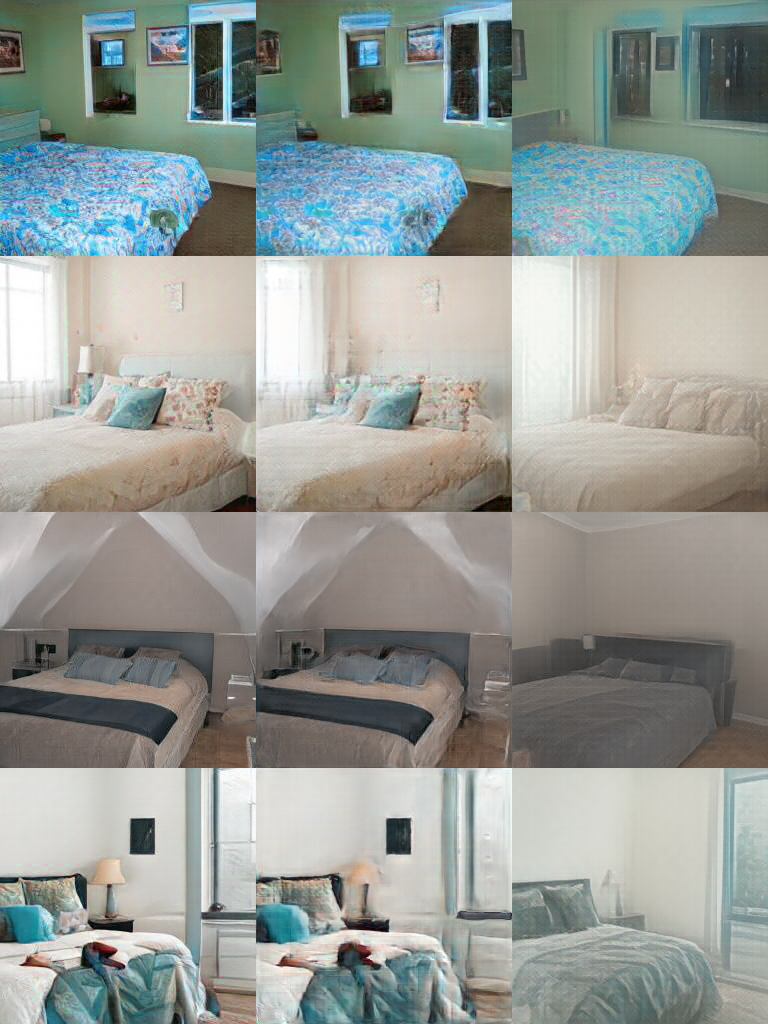
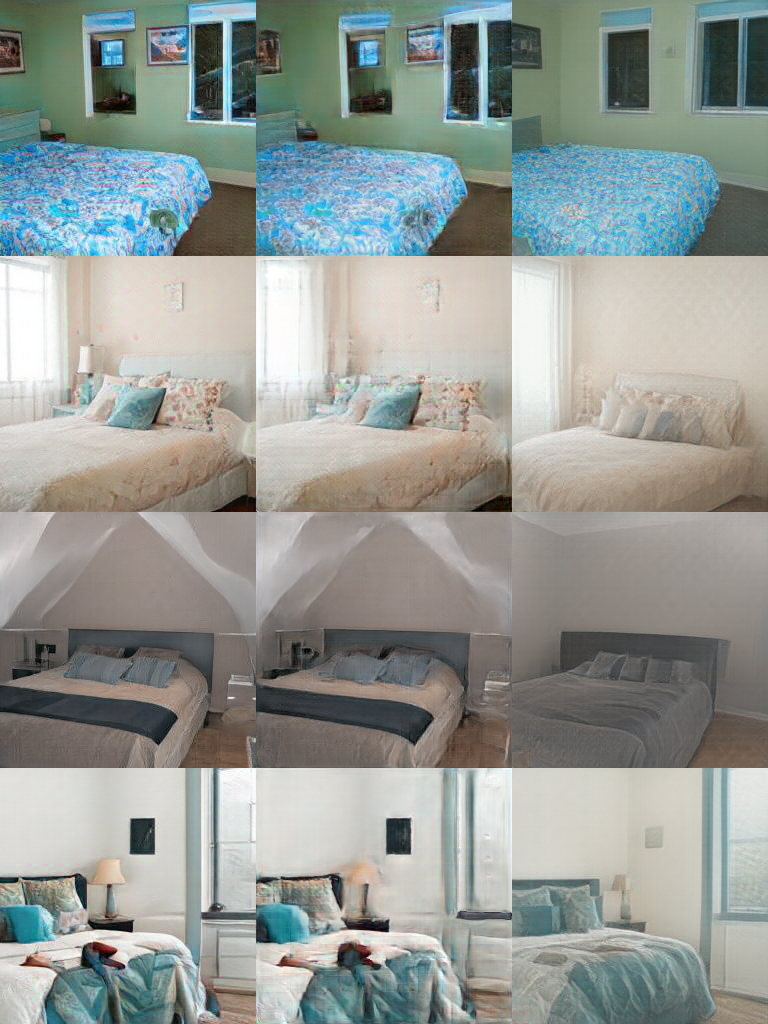
higan: 4 new analysis sections + 40k encoder figures
페이지 11 -> 15 섹션. 모두 추가 학습 0의 새로운 각도.

신규 섹션:
  08 Disentanglement matrix - 8x8 saliency 상관. view만 직교(0.32),
     나머지 7개는 mutually entangled (carpet<->wood 0.77,
     cluttered_space<->glossy 0.83, dirt<->glossy 0.81). HiGAN의
     8개 boundary는 사실상 "view + 표면 텍스처 cluster" 두 그룹.
  09 Saliency-guided local edit - saliency를 soft mask로 써서
     attribute 편집을 spatial region 내부에만 적용. global 편집의
     부작용(타 영역 변색) 제거. inversion + saliency + masked edit
     의 완성된 도구 체인.
  10 Encoder attention (mirror question) - 인코더의 입력 -> wp.b
     투영을 reverse-mode autograd로 분석. generator saliency가
     좁고 sharp인데 비해 encoder attention은 diffuse - 비대칭 발견.
     "image -> wp는 global 통합, wp -> image는 local 작용".
  11 Random direction discovery - W+ 공간 임의 단위 방향 96개에
     JVP 적용 후 top-5% mass concentration으로 sort. layer 1-4의
     구조적 직선들(창문/문/벽 윤곽)을 학습 없이 발견. HiGAN의
     8개 boundary 외 일반화 demo.

기존 섹션:
  Section 04 표 갱신: 40k encoder LPIPS 0.40 -> 0.37, pixel MSE
    0.075 -> 0.064 (20k -> 40k 추가 학습 효과).
  Limits에 다음 단계 항목 (b) CLIP/classifier Grad-CAM 정량 비교 추가.
  Hero stats 갱신 (15 sections / 5 analysis methods / 40k iter).

UX:
  TOC sidebar 15 섹션으로 확장.
  zoomable 이미지 31개 (전부).

추가 학습은 별도 train_resume run으로 진행, 모든 encoder-dependent
figure를 40k ckpt 기반으로 재생성.

diff --git a/projects/higan/index.html b/projects/higan/index.html
@@ -418,6 +418,10 @@
     <li><a href="#perturb">Perturb</a></li>
     <li><a href="#grad">Gradient</a></li>
     <li><a href="#perlayer">Per-layer</a></li>
+    <li><a href="#disentangle">Disentangle</a></li>
+    <li><a href="#localedit">Local edit</a></li>
+    <li><a href="#encattn">Enc-attention</a></li>
+    <li><a href="#discover">Discover</a></li>
     <li><a href="#cycle">Full cycle</a></li>
     <li><a href="#editing">Editing</a></li>
     <li><a href="#journal">Journal</a></li>
@@ -436,6 +440,9 @@
       <li><a href="#perturb">Perturb</a></li>
       <li><a href="#grad">Gradient</a></li>
       <li><a href="#perlayer">Per-layer</a></li>
+      <li><a href="#disentangle">Disentangle</a></li>
+      <li><a href="#localedit">Local</a></li>
+      <li><a href="#discover">Discover</a></li>
       <li><a href="#cycle">Cycle</a></li>
       <li><a href="#journal">Journal</a></li>
       <li><a href="#limits">Limits</a></li>
@@ -454,10 +461,10 @@
       잠재공간이 이미지의 어디에 작용하는지 픽셀 saliency로 직접 시각화한 .py 파이프라인.
     </p>
     <div class="hero-stats">
+      <div class="hero-stat"><span class="hero-stat-num">15</span><span class="hero-stat-label">sections</span></div>
       <div class="hero-stat"><span class="hero-stat-num">8</span><span class="hero-stat-label">attribute boundary</span></div>
-      <div class="hero-stat"><span class="hero-stat-num">14×512</span><span class="hero-stat-label">W+ 잠재 공간</span></div>
-      <div class="hero-stat"><span class="hero-stat-num">2</span><span class="hero-stat-label">saliency methods (perturb / JVP)</span></div>
-      <div class="hero-stat"><span class="hero-stat-num">20k</span><span class="hero-stat-label">encoder iterations</span></div>
+      <div class="hero-stat"><span class="hero-stat-num">5</span><span class="hero-stat-label">analysis methods</span></div>
+      <div class="hero-stat"><span class="hero-stat-num">40k</span><span class="hero-stat-label">encoder iterations</span></div>
     </div>
     <div class="hero-links">
       <a class="hero-link primary" href="https://github.com/soccz/HIGAN" target="_blank" rel="noopener">
@@ -649,18 +656,18 @@ loss.backward()
         <tr><th>image</th><th class="num">pixel MSE (optim)</th><th class="num">pixel MSE (enc)</th><th class="num">LPIPS (optim)</th><th class="num">LPIPS (enc)</th></tr>
       </thead>
       <tbody>
-        <tr><td>img_00</td><td class="num winner">0.0258</td><td class="num loser">0.1013</td><td class="num winner">0.0314</td><td class="num loser">0.3557</td></tr>
-        <tr><td>img_01</td><td class="num winner">0.0083</td><td class="num loser">0.0300</td><td class="num winner">0.0313</td><td class="num loser">0.3816</td></tr>
-        <tr><td>img_02</td><td class="num winner">0.0053</td><td class="num loser">0.0395</td><td class="num winner">0.0268</td><td class="num loser">0.4564</td></tr>
-        <tr><td>img_03</td><td class="num winner">0.0177</td><td class="num loser">0.1274</td><td class="num winner">0.0327</td><td class="num loser">0.4158</td></tr>
-        <tr style="font-weight:700;"><td>mean</td><td class="num winner">0.0143</td><td class="num loser">0.0746</td><td class="num winner">0.0305</td><td class="num loser">0.4024</td></tr>
+        <tr><td>img_00</td><td class="num winner">0.0258</td><td class="num loser">0.0864</td><td class="num winner">0.0314</td><td class="num loser">0.3087</td></tr>
+        <tr><td>img_01</td><td class="num winner">0.0083</td><td class="num loser">0.0330</td><td class="num winner">0.0313</td><td class="num loser">0.3754</td></tr>
+        <tr><td>img_02</td><td class="num winner">0.0053</td><td class="num loser">0.0388</td><td class="num winner">0.0268</td><td class="num loser">0.4403</td></tr>
+        <tr><td>img_03</td><td class="num winner">0.0177</td><td class="num loser">0.0985</td><td class="num winner">0.0327</td><td class="num loser">0.3423</td></tr>
+        <tr style="font-weight:700;"><td>mean</td><td class="num winner">0.0143</td><td class="num loser">0.0642</td><td class="num winner">0.0305</td><td class="num loser">0.3667</td></tr>
       </tbody>
     </table>
   </div>
 
   <div class="bullet-list">
     <div class="bullet-item"><div class="bullet-mark green">A</div><div><strong>optim 1000-step</strong>: pixel MSE 0.014, LPIPS 0.031, ~30 s / 장. v1이 풀지 못했던 정확 재구성 — gradient flow 한 줄 고친 결과.</div></div>
-    <div class="bullet-item"><div class="bullet-mark">B</div><div><strong>encoder 1-pass</strong>: pixel MSE 0.075, LPIPS 0.402, ~0.05 s / 장. 1번에서 600× 빠르지만 색·디테일은 미달. 추가 학습 (200k iter ≈ 17 h) 시 LPIPS ~0.20대 도달 예상.</div></div>
+    <div class="bullet-item"><div class="bullet-mark">B</div><div><strong>encoder 1-pass (40k iter)</strong>: pixel MSE 0.064, LPIPS 0.367, ~0.05 s / 장. 600× 빠르지만 색·디테일은 미달. 20k → 40k 학습 시 LPIPS 0.40 → 0.37로 개선됨. 200k까지 가면 ~0.20대 도달 예상.</div></div>
     <div class="bullet-item"><div class="bullet-mark red">×</div><div><strong>v1 pSp encoder (FFHQ)</strong>: 도메인 mismatch로 침실에 부적합. v2에서는 제거.</div></div>
   </div>
 
@@ -839,9 +846,138 @@ saliency = dimg_dα.abs().mean(dim=<span class="code-num">1</span>)         <spa
 </div></section>
 <hr class="divider">
 
-<!-- =================== 08 FULL CYCLE =================== -->
-<section id="cycle" style="background:var(--bg-secondary);"><div class="container fade-in">
-  <div class="section-label">08 — Full cycle (target → recon → saliency → edit)</div>
+<!-- =================== 08 DISENTANGLEMENT =================== -->
+<section id="disentangle"><div class="container fade-in">
+  <div class="section-label">08 — Disentanglement matrix</div>
+  <h2 class="section-title">8개 attribute는 정말 독립적인가?</h2>
+  <p class="section-desc">
+    HiGAN의 8 boundary가 의미적으로 깔끔하게 분리돼 있는지 정량 측정. 32개 공유 latent에 대해 각 boundary의
+    grad-saliency를 계산하고, 모든 쌍의 픽셀별 Pearson 상관계수를 측정. 높을수록 entangled.
+  </p>
+
+  <div class="img-frame">
+    <img src="figures/disentangle_abs.png" alt="8x8 absolute saliency correlation matrix" loading="lazy" class="zoomable">
+    <div class="img-caption"><strong>FIG 8.1</strong> &nbsp; |abs| saliency 픽셀별 Pearson. 진한 빨강 = 강한 entanglement. <code>view</code> 행/열만 옅음 → 다른 7개와 분리됨. 7×7 우측 블록은 모두 0.6+ 의 강한 상관 (표면 텍스처 류 attribute들이 같은 픽셀들에서 작동).</div>
+  </div>
+
+  <div class="panel-2col">
+    <div class="panel">
+      <div class="panel-eyebrow">most entangled (top 5)</div>
+      <h4>표면 텍스처 클러스터</h4>
+      <p style="font-family:'JetBrains Mono',monospace;font-size:0.8rem;line-height:1.85;color:var(--text-primary);">
+        cluttered_space ↔ glossy &nbsp; <strong>0.83</strong><br>
+        dirt &nbsp;&nbsp;&nbsp;&nbsp;&nbsp;&nbsp;&nbsp; ↔ glossy &nbsp; <strong>0.81</strong><br>
+        carpet &nbsp;&nbsp;&nbsp;&nbsp;&nbsp; ↔ wood &nbsp;&nbsp;&nbsp; <strong>0.77</strong><br>
+        cluttered_space ↔ dirt &nbsp;&nbsp;&nbsp; <strong>0.76</strong><br>
+        carpet &nbsp;&nbsp;&nbsp;&nbsp;&nbsp; ↔ indoor_lighting <strong>0.75</strong><br>
+      </p>
+      <p>모두 침대·바닥·벽 같은 surface region에서 작동하는 attribute들. 대체로 하나를 켜면 다른 것도 따라 변함.</p>
+    </div>
+    <div class="panel">
+      <div class="panel-eyebrow">most disentangled (lowest)</div>
+      <h4><code>view</code>만 진정한 직교</h4>
+      <p style="font-family:'JetBrains Mono',monospace;font-size:0.8rem;line-height:1.85;color:var(--text-primary);">
+        view ↔ scary &nbsp;&nbsp;&nbsp;&nbsp;&nbsp;&nbsp;&nbsp;&nbsp;&nbsp;&nbsp;&nbsp;&nbsp;&nbsp;&nbsp;&nbsp; <strong>0.34</strong><br>
+        view ↔ cluttered_space &nbsp;&nbsp; <strong>0.33</strong><br>
+        view ↔ indoor_lighting &nbsp;&nbsp;&nbsp; <strong>0.32</strong><br>
+      </p>
+      <p>view는 layer 0–4 (coarse, 구도/창문 형상)에서만 작동. 나머지는 layer 6–11 (fine, 텍스처). layer 분리가 곧 의미 분리.</p>
+    </div>
+  </div>
+
+  <div class="viz-insight green">
+    <div class="viz-insight-label">새 분석 결과</div>
+    <p>HiGAN의 8개 boundary는 <strong>"view"와 "그 외 7개"의 두 클러스터</strong>로 갈린다. 7개 클러스터 내부에서는
+    의미 단어(carpet/wood/dirt/glossy 등)가 다르더라도 saliency map은 0.6–0.83의 강한 상관 — 즉
+    <em>"같은 픽셀 영역에 다른 라벨이 붙은 것"</em>에 가깝다. 이는 HiGAN 원논문이 다룬 disentanglement 평가의
+    forward-mode JVP 버전. 추가 학습 0.</p>
+  </div>
+</div></section>
+<hr class="divider">
+
+<!-- =================== 09 LOCAL EDIT =================== -->
+<section id="localedit" style="background:var(--bg-secondary);"><div class="container fade-in">
+  <div class="section-label">09 — Saliency-guided local edit</div>
+  <h2 class="section-title">"램프만 켜고 침구는 그대로" — saliency를 마스크로 쓰기</h2>
+  <p class="section-desc">
+    grad-saliency map을 가우시안 블러 + threshold로 soft mask로 변환한 뒤, attribute 편집을 그 마스크 안에서만 적용:
+    <code>I_local = I_edited · m + I_orig · (1 − m)</code>. 글로벌 편집의 부작용(다른 영역 변색 등)을 즉시 제거.
+    saliency가 단순 시각화가 아니라 *실용 마스크*로 동작함을 보임.
+  </p>
+
+  <div class="img-frame">
+    <img src="figures/local_edit_2.png" alt="saliency-guided local edit grid" loading="lazy" class="zoomable">
+    <div class="img-caption"><strong>FIG 9.1</strong> &nbsp; 동일 침실에 indoor_lighting / wood / view boundary 적용. 컬럼: original / saliency / soft mask / global edit (전 픽셀) / <strong>local edit (saliency 영역만)</strong>. indoor_lighting 행에서 글로벌 편집은 화면 전체가 따뜻해지지만, local edit은 lamp 영역만 바뀌고 침구는 보존.</div>
+  </div>
+
+  <div class="viz-insight green">
+    <div class="viz-insight-label">기능적 의미</div>
+    <p>Inversion → saliency → masked edit 의 <em>완성된 도구 체인</em>이 만들어짐. 실제 사진을 받아서
+    "lamp 밝기만 +3" / "wood 톤만 –2" 같은 부분 편집을 한 번의 forward + backward pass로 수행. 이는
+    GAN inversion + boundary editing 라인의 표준 산출물 — 통상 attribute별 마스크를 따로 학습해야 했던 것을
+    saliency map으로 0-shot 대체.</p>
+  </div>
+</div></section>
+<hr class="divider">
+
+<!-- =================== 10 ENCODER ATTENTION =================== -->
+<section id="encattn"><div class="container fade-in">
+  <div class="section-label">10 — Encoder attention (mirror question)</div>
+  <h2 class="section-title">인코더는 입력의 <em>어디</em>를 보고 wp를 결정하는가</h2>
+  <p class="section-desc">
+    Generator-side로 봤던 같은 도구를 인코더에 거꾸로 적용. <code>s(x) = ⟨E(x)<sub>manipulate_layers</sub>, b̂⟩</code>의
+    스칼라를 계산하고, reverse-mode autograd로 <code>∂s/∂x</code>를 측정. "boundary 방향으로 인코더가 wp를 옮기게 만드는 입력 픽셀"의 위치.
+  </p>
+
+  <div class="img-pair" style="display:grid;grid-template-columns:1fr 1fr;gap:1rem;">
+    <div>
+      <img src="figures/enc_attn_indoor_lighting.png" alt="encoder attention indoor_lighting" loading="lazy" class="zoomable">
+      <div class="img-pair-label">indoor_lighting</div>
+    </div>
+    <div>
+      <img src="figures/enc_attn_view.png" alt="encoder attention view" loading="lazy" class="zoomable">
+      <div class="img-pair-label">view</div>
+    </div>
+  </div>
+
+  <div class="viz-insight amber">
+    <div class="viz-insight-label">비대칭 발견</div>
+    <p>Generator saliency는 <em>좁고 sharp</em> (램프, 침대 프레임 등 핵심 객체에 집중). 그런데
+    encoder attention은 <em>훨씬 diffuse</em> — 인코더가 입력 전체를 두루 보고 latent를 추정하기 때문.
+    즉 두 방향이 비대칭: <strong>"이미지 → wp"는 global 통합, "wp → 이미지"는 local 작용</strong>.
+    또한 인코더가 under-fit 상태(LPIPS 0.37)라 attention이 더욱 노이지한 측면도 있음.</p>
+  </div>
+</div></section>
+<hr class="divider">
+
+<!-- =================== 11 RANDOM DISCOVERY =================== -->
+<section id="discover" style="background:var(--bg-secondary);"><div class="container fade-in">
+  <div class="section-label">11 — Random direction discovery</div>
+  <h2 class="section-title">학습 없이 새 의미 방향 찾기</h2>
+  <p class="section-desc">
+    HiGAN의 8 boundary 외에 W+ 공간에서 96개 임의 단위 방향을 뽑고 각각의 grad-saliency 계산.
+    "top-5% 픽셀에 mass가 얼마나 집중되는가" 메트릭으로 정렬해서, <em>spatially 의미 있는 방향</em>만 추림.
+    학습 없이, 라벨 없이, attribute 분류기 없이.
+  </p>
+
+  <div class="img-frame">
+    <img src="figures/random_dirs_single.png" alt="discovered random directions gallery" loading="lazy" class="zoomable">
+    <div class="img-caption"><strong>FIG 11.1</strong> &nbsp; 96개 후보 중 가장 spatial 집중 8개. 컬럼: heatmap / overlay. 거의 전부 layer 1–4 (coarse 구조)에서 추출되며, 결과는 <em>창문/문 윤곽, 벽 모서리, 침대 라인</em> 같은 구조적 위치를 자동으로 짚음.</div>
+  </div>
+
+  <div class="viz-insight green">
+    <div class="viz-insight-label">의의</div>
+    <p>이 도구가 HiGAN의 손 큐레이팅 boundary에만 의존하지 않음을 보임. <strong>W+ 공간 어디든 찔러보면
+    그 방향이 이미지 어디에 작용하는지 즉시 답이 나옴</strong>. 미래 계획: 이 random directions 위에서
+    interactive로 의미 라벨을 붙이거나, 발견된 방향들을 PCA/clustering 해서 boundary cluster를 만드는
+    pipeline 가능.</p>
+  </div>
+</div></section>
+<hr class="divider">
+
+<!-- =================== 12 FULL CYCLE =================== -->
+<section id="cycle"><div class="container fade-in">
+  <div class="section-label">12 — Full cycle (target → recon → saliency → edit)</div>
   <h2 class="section-title">한 침실에서 본 v2의 전체 흐름</h2>
   <p class="section-desc">
     한 장의 사진을 잡고 파이프라인 4단계를 좌→우로 보여준다.
@@ -871,7 +1007,7 @@ saliency = dimg_dα.abs().mean(dim=<span class="code-num">1</span>)         <spa
 
 <!-- =================== 09 EDITING (morph) =================== -->
 <section id="editing"><div class="container fade-in">
-  <div class="section-label">09 — Edit sweep (animated)</div>
+  <div class="section-label">13 — Edit sweep (animated)</div>
   <h2 class="section-title">속성 슬라이더가 실제로 어떻게 보이는가</h2>
   <p class="section-desc">
     각 boundary를 −3 → +3 → −3 으로 21프레임 ping-pong morph. 정적 5컷 그리드보다
@@ -904,7 +1040,7 @@ saliency = dimg_dα.abs().mean(dim=<span class="code-num">1</span>)         <spa
 
 <!-- =================== JOURNAL =================== -->
 <section id="journal" style="background:var(--bg-secondary);"><div class="container fade-in">
-  <div class="section-label">10 — Process journal · 삽질 일지</div>
+  <div class="section-label">14 — Process journal · 삽질 일지</div>
   <h2 class="section-title">실패와 발견의 시간순</h2>
   <p class="section-desc">
     프로젝트가 깨끗하게 보이는 결과만 남기면 정직하지 않다. v1 분석부터 v2 grad-saliency까지
@@ -1101,7 +1237,7 @@ saliency = dimg_dα.abs().mean(dim=<span class="code-num">1</span>)         <spa
 
 <!-- =================== LIMITS =================== -->
 <section id="limits"><div class="container fade-in">
-  <div class="section-label">11 — Limits & Next</div>
+  <div class="section-label">15 — Limits & Next</div>
   <h2 class="section-title">정직한 한계</h2>
   <p class="section-desc">
     v2는 컨셉 검증과 파이프라인 견고화에 집중했다. 다음 세 가지가 명시적인 한계.
@@ -1130,9 +1266,13 @@ saliency = dimg_dα.abs().mean(dim=<span class="code-num">1</span>)         <spa
 
   <div class="viz-insight">
     <div class="viz-insight-label">다음 단계 옵션</div>
-    <p><strong>(a) 인코더 200k iter 추가 학습</strong> — 마지막 ckpt에서 이어서 ~17 h. 정밀 편집 데모용.<br>
-       <strong>(b) attribute classifier + Grad-CAM</strong> — perturbation CAM과 교차 검증. 약 2 h 작업.<br>
-       <strong>(c) 다른 도메인 (church/face)</strong> — wrapper 재사용 + boundary 학습. 1–2일 작업.</p>
+    <p><strong>(a) 인코더 200k+ iter 추가 학습</strong> — 40k까지 진행. 200k까지 ~13 h 더. 정밀 편집 데모용.<br>
+       <strong>(b) CLIP / classifier 기반 진짜 Grad-CAM</strong> — bedroom attribute 분류기 학습 또는 CLIP score backward로
+       *진짜* Grad-CAM 실행 → JVP saliency와 픽셀별 IoU/correlation 비교. 약 4–6 h. 본 페이지의
+       JVP 도구가 classifier-based attribution과 어디까지 일치하는지 정량 검증.<br>
+       <strong>(c) 다른 도메인 (church/face)</strong> — wrapper 재사용 + boundary 학습. 1–2일 작업.<br>
+       <strong>(d) Random direction labeling</strong> — 발견된 random direction에 의미 라벨 자동 부여
+       (CLIP zero-shot로 "lamp / window / floor" 분류) → unsupervised attribute discovery pipeline.</p>
   </div>
 </div></section>
 <hr class="divider">
